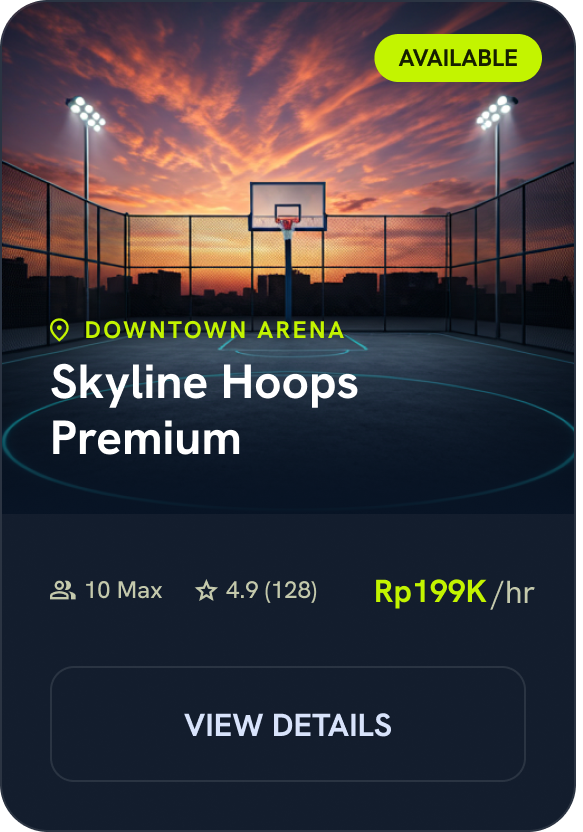
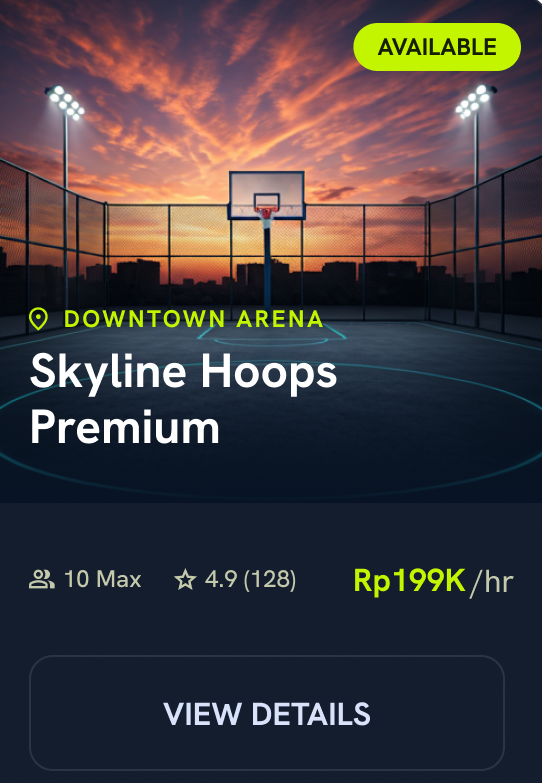
Improve frontend: hero video, court images, booking improvements

diff --git a/src/main/resources/templates/home.html b/src/main/resources/templates/home.html
@@ -8,7 +8,18 @@
     <main class="main-content">
         <!-- Hero Section -->
         <section style="height: 600px; display: flex; flex-direction: column; justify-content: center; position: relative; margin-bottom: var(--space-8);">
-            <div style="position: absolute; inset: 0; background: var(--color-bg-elevated); border-radius: var(--radius-xl); opacity: 0.3;"></div>
+            <div class="hero">
+    <video autoplay muted loop playsinline
+           style="position: absolute;
+                  inset: 0;
+                  width: 100%;
+                  height: 100%;
+                  object-fit: cover;
+                  border-radius: var(--radius-xl);
+                  opacity: 0.6;">
+        <source src="/videos/Panel.mp4" type="video/mp4">
+    </video>
+</div>
             <div style="position: relative; z-index: 1; max-width: 600px;">
                 <span class="badge badge-glass" style="margin-bottom: var(--space-5);">
                     <span style="width: 8px; height: 8px; background: var(--color-accent-primary); border-radius: 50%; display: inline-block;"></span>
@@ -51,7 +62,7 @@
             <div class="sport-grid">
                 <div th:each="sport : ${sports}" class="sport-card" th:data-sport-id="${sport.id}" th:data-sport-slug="${sport.slug}" onclick="filterBySport(this)">
                     <div class="sport-icon-box" th:text="${sport.icon}">🏀</div>
-                    <h3 th:text="${sport.name}">Basketball</h3>
+                    <h3 th:text="${sport.name}">Basketball and Volleyball</h3>
                     <p><span th:text="${sport.locationCount}">12</span> Locations</p>
                 </div>
             </div>
@@ -125,7 +136,15 @@
                         <div class="avatar-badge">+8k</div>
                     </div>
                 </div>
-                <div style="width: 200px; height: 200px; background: var(--color-bg-elevated); border-radius: var(--radius-xl); flex-shrink: 0;"></div>
+                <div style="
+    width: 200px;
+    height: 200px;
+    background-image: url('https://images.unsplash.com/photo-1504450758481-7338eba7524a?w=1400&q=80');
+    background-size: cover;
+    background-position: center;
+    border-radius: var(--radius-xl);
+    flex-shrink: 0;
+"></div>
             </div>
         </section>
 

diff --git a/src/main/resources/templates/my-bookings.html b/src/main/resources/templates/my-bookings.html
@@ -190,9 +190,7 @@
             ' : '';
             return '\n\
                 <div class="booking-card">\n\
-                    <div class="booking-card-image">\n\
-                        <div style="position: absolute; inset: 0; background: linear-gradient(to top, var(--color-bg-primary) 0%, rgba(8,20,37,0) 100%);"></div>\n\
-                        <span class="badge badge-lime" style="position: absolute; top: var(--space-3); right: var(--space-3);">' + statusLabel + '</span>\n\
+                   <div class="booking-card-image" style="' + (b.courtImageUrl ? 'background-image: url(' + b.courtImageUrl + '); background-size: cover; background-position: center;' : '') + '">\n\
                     </div>\n\
                     <div class="booking-card-body">\n\
                         <h3>' + b.courtName + '</h3>\n\

diff --git a/src/main/java/com/siblo/rent/config/DataSeeder.java b/src/main/java/com/siblo/rent/config/DataSeeder.java
@@ -101,6 +101,7 @@ public class DataSeeder implements CommandLineRunner {
     .badgeLabel("TOP RATED")
     .imageUrl("/images/velocity-padelCenter.png")
     .build());
+
        courtRepository.save(Court.builder().venue(eastSide).sport(futsal)
     .name("Striker Futsal Indoor")
     .description("Indoor futsal court with high-quality artificial grass.")
@@ -112,29 +113,62 @@ public class DataSeeder implements CommandLineRunner {
     .reviewCount(215)
     .status(CourtStatus.ACTIVE)
     .badgeLabel("2 SLOTS LEFT")
-    .imageUrl("/images/strikerFutsalIndoor.png")
+    .imageUrl("/images/strikerFustalIndoor.png")
     .build());
-        courtRepository.save(Court.builder().venue(grandSlam).sport(tennis)
-            .name("Grand Slam Center - Court 04").description("Premium professional acrylic surface with advanced shock absorption technology.")
-            .surfaceType("Acrylic").indoor(true).pricePerHour(350000).capacity(4)
-            .rating(4.8).reviewCount(56).status(CourtStatus.ACTIVE).badgeLabel("PREMIUM").build());
+
+       courtRepository.save(Court.builder().venue(grandSlam).sport(tennis)
+    .name("Grand Slam Center - Court 04")
+    .description("Premium professional acrylic surface with advanced shock absorption technology.")
+    .surfaceType("Acrylic")
+    .indoor(true)
+    .pricePerHour(350000)
+    .capacity(4)
+    .rating(4.8)
+    .reviewCount(56)
+    .status(CourtStatus.ACTIVE)
+    .badgeLabel("PREMIUM")
+    .imageUrl("/images/grandSlamCourt04.png")
+    .build());
 
         courtRepository.save(Court.builder().venue(downtown).sport(badminton)
-            .name("Downtown Badminton Hall").description("Professional badminton court with wooden flooring.")
-            .surfaceType("Wooden").indoor(true).pricePerHour(150000).capacity(4)
-            .rating(4.5).reviewCount(34).status(CourtStatus.ACTIVE).badgeLabel("AVAILABLE").build());
+    .name("Downtown Badminton Hall")
+    .description("Professional badminton court with wooden flooring.")
+    .surfaceType("Wooden")
+    .indoor(true)
+    .pricePerHour(150000)
+    .capacity(4)
+    .rating(4.5)
+    .reviewCount(34)
+    .status(CourtStatus.ACTIVE)
+    .badgeLabel("AVAILABLE")
+    .imageUrl("/images/downtownBadmintonHall.png")
+    .build());
 
-        courtRepository.save(Court.builder().venue(downtown).sport(futsal)
-            .name("Lapangan Futsal").surfaceType("Hard Court").indoor(true).pricePerHour(255000).capacity(10)
-            .rating(4.5).reviewCount(100).status(CourtStatus.ACTIVE).badgeLabel("PREMIUM").build());
+      courtRepository.save(Court.builder().venue(downtown).sport(futsal)
+    .name("Premium SoccerField 73")
+    .surfaceType("Hard Court")
+    .indoor(true)
+    .pricePerHour(255000)
+    .capacity(10)
+    .rating(4.5)
+    .reviewCount(100)
+    .status(CourtStatus.ACTIVE)
+    .badgeLabel("PREMIUM")
+    .imageUrl("/images/area73.png")
+    .build());
 
         courtRepository.save(Court.builder().venue(eastSide).sport(basketball)
-            .name("Lapangan Voli").surfaceType("Clay").indoor(false).pricePerHour(150000).capacity(12)
-            .rating(4.2).reviewCount(78).status(CourtStatus.ACTIVE).build());
-
-        courtRepository.save(Court.builder().venue(glassHub).sport(padel)
-            .name("Lapangan Padel").surfaceType("Synthetic").indoor(true).pricePerHour(135000).capacity(4)
-            .rating(4.0).reviewCount(45).status(CourtStatus.MAINTENANCE).build());
+    .name("Lapangan Voli")
+    .surfaceType("Clay")
+    .indoor(false)
+    .pricePerHour(150000)
+    .capacity(12)
+    .rating(4.2)
+    .reviewCount(78)
+    .status(CourtStatus.ACTIVE)
+    .badgeLabel("AVAILABLE")
+    .imageUrl("/images/Volypremium.png")
+    .build());
 
         List<Court> allCourts = courtRepository.findAll();
         LocalDate today = LocalDate.now();